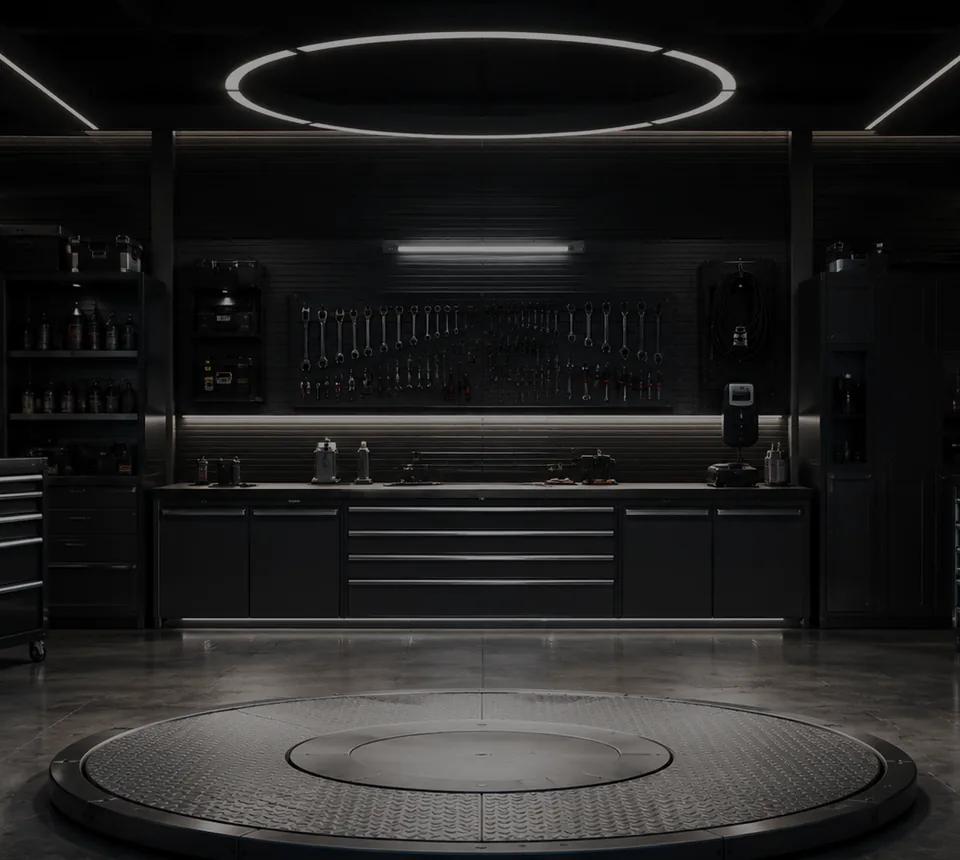
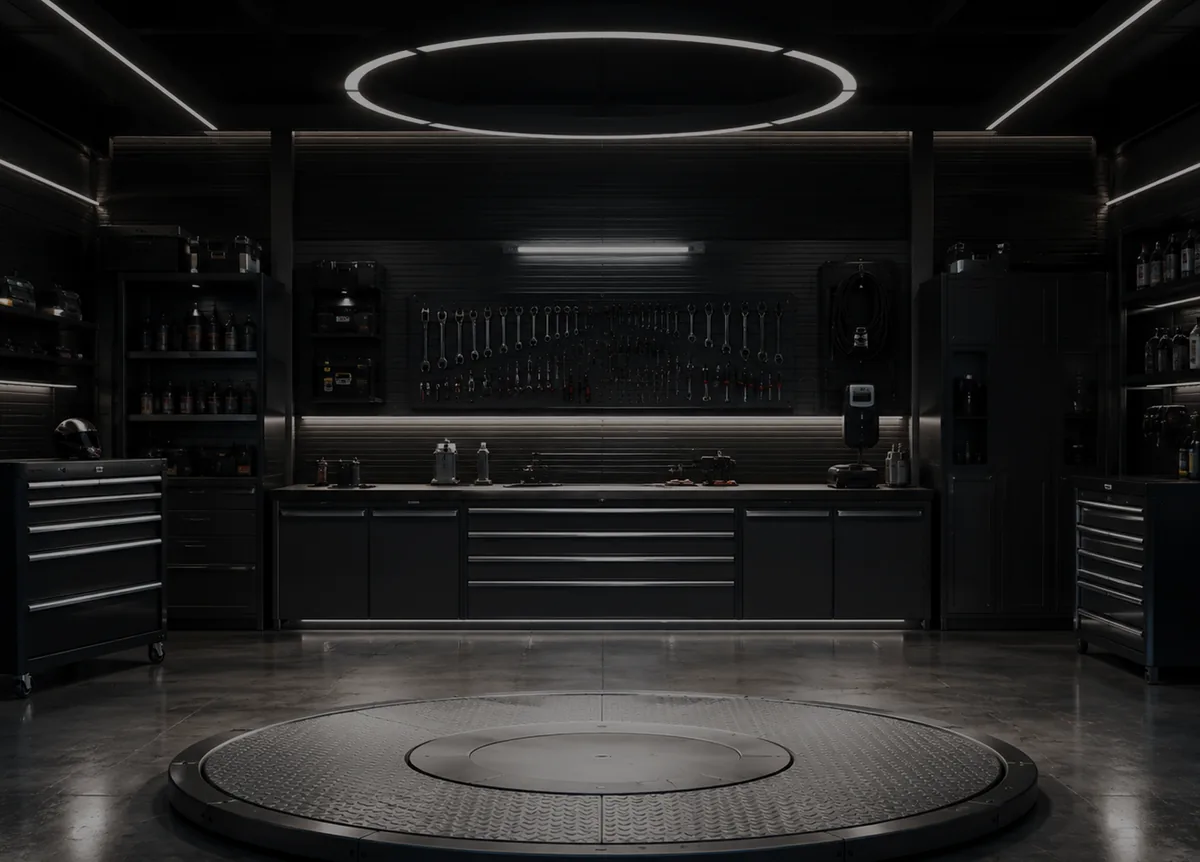
Werkstatt reicht weiter nach links, Teller und Maschine bleiben gleich
Der Bildausschnitt geht jetzt ueber fast den ganzen Raum (0.02 bis 0.98
statt 0.115 bis 0.885) und der Raum ragt 56 statt 16 Punkte ueber die
Buehne hinaus - nach beiden Seiten gleich, damit die Tellermitte auf der
Buehnenmitte bleibt. Weil die Karte mit cover ueber die HOEHE skaliert und
das breitere Bild im selben Verhaeltnis breiter ist, bleibt der Teller auf
den Punkt gleich gross (nachgerechnet 324 Punkte in beiden Faellen); es
wird nur mehr Werkstatt sichtbar und das Fading laeuft ueber eine laengere
Strecke. Der Ueberhang steht als Marke, damit er nie einseitig geraet.

diff --git a/stil/style.css b/stil/style.css
@@ -2702,6 +2702,11 @@ button.karte:active { transform: scale(0.985); }
      gebraucht: fuer die Spalten des Rasters und fuer die linke Kante des
      Raums (.bike-raum), die auf der Spaltengrenze liegen muss. */
   --bike-text-anteil: 0.46;
+  /* Wie weit der Werkstattraum ueber die Buehne hinausragt - nach BEIDEN
+     Seiten gleich, sonst laege die Tellermitte nicht mehr auf der
+     Buehnenmitte. Nach links traegt der Ueberhang das Fading zu den
+     Werten, nach rechts schneidet die Karte ihn ab. */
+  --bike-raum-ueberhang: 56px;
   grid-template-columns: minmax(0, calc(var(--bike-text-anteil) * 100%)) minmax(0, 1fr);
   grid-template-rows: auto auto 1fr auto;
   column-gap: var(--s3);
@@ -2732,12 +2737,15 @@ button.karte:active { transform: scale(0.985); }
    davor. */
 .bike-raum {
   position: absolute;
-  top: 0; right: 0; bottom: 0;
+  top: 0; bottom: 0;
+  right: calc(-1 * var(--bike-raum-ueberhang));
   /* Die linke Kante liegt 16 Punkte vor der Buehne (im Spaltenabstand),
-     die rechte 16 Punkte hinter ihr (im Innenabstand der Karte): Der Raum
-     ist damit SYMMETRISCH um die Buehne, und "center" legt die Tellermitte
-     des Bildes von selbst auf die Buehnenmitte - die Maschine steht auf dem
-     Teller, ohne dass das Bild verschoben wuerde.
+     die rechte gleich weit dahinter (ueber die Kartenkante hinaus, die
+     Karte schneidet ab): Der Raum ist damit SYMMETRISCH um die Buehne, und
+     "center" legt die Tellermitte des Bildes von selbst auf die
+     Buehnenmitte - die Maschine steht auf dem Teller, ohne dass das Bild
+     verschoben wuerde. Wer den Ueberhang aendert, aendert ihn ueber die
+     Marke und damit auf beiden Seiten zugleich.
 
      Hier stand zuerst ein Raum mit 150 Punkten Ueberhang nach links und
      einer Verschiebung des Bildes um 67 Punkte nach rechts. Das rechnete
@@ -2746,11 +2754,11 @@ button.karte:active { transform: scale(0.985); }
      abgeschnitten) und liess links eine harte Bildkante stehen, die das
      Fading zunichte machte.
 
-     Die Rechnung fuer left: Innenabstand + Textspalte + Spaltenabstand,
-     davon wieder ein Innenabstand zurueck. Prozent bezieht sich hier auf
-     die Kartenbreite innerhalb des Rahmens; die Textspalte ist ein Anteil
-     der Breite innerhalb des Innenabstands. */
-  left: calc(var(--bike-text-anteil) * (100% - 2 * var(--s4)) + var(--s3));
+     Die Rechnung fuer left: Textspalte + Spaltenabstand, davon der
+     Ueberhang zurueck. Prozent bezieht sich hier auf die Kartenbreite
+     innerhalb des Rahmens; die Textspalte ist ein Anteil der Breite
+     innerhalb des Innenabstands. */
+  left: calc(var(--bike-text-anteil) * (100% - 2 * var(--s4)) + var(--s3) - var(--bike-raum-ueberhang));
   z-index: 0;
   background: url("../img/bike-raum.webp") center bottom / cover no-repeat;
   /* Der Uebergang zu den Werten: ueber gut die Haelfte der Raumbreite, und

diff --git a/werkzeug/bike-raum.py b/werkzeug/bike-raum.py
@@ -21,16 +21,29 @@ WAS GERECHNET WIRD, und warum jede Zahl so ist:
 
   2. Der Ausschnitt. Der Drehteller ist im Bild ausgemessen: waagerecht von
      0.163 bis 0.828, die Aufsetzlinie der Raeder bei 0.7775 der Hoehe.
-     Seitlich wird auf 0.115 bis 0.885 beschnitten (der Teller mit etwas
-     Luft), unten bei 0.862 - dadurch liegt die Aufsetzlinie bei 90 Prozent
-     der Ausschnitthoehe. Das ist der Grund fuer diesen Schnitt: Mit
-     "background-position: center bottom" steht die Maschine dann AUF dem
-     Teller und nicht davor. Oben bleibt das Ringlicht ganz im Bild; die
-     Maske in style.css blendet es weich aus.
+     Unten wird bei 0.862 beschnitten - dadurch liegt die Aufsetzlinie bei
+     90 Prozent der Ausschnitthoehe. Das ist der Grund fuer diesen Schnitt:
+     Mit "background-position: center bottom" steht die Maschine dann AUF
+     dem Teller und nicht davor. Oben bleibt das Ringlicht ganz im Bild;
+     die Maske in style.css blendet es weich aus.
 
-  3. Verkleinern auf 960 Punkte Breite. Gerechnet, nicht gegriffen: Die
-     Buehne ist auf dem Handy rund 165 Punkte breit (bei dreifacher Dichte
-     495), im Querformat rund 380 (bei zweifacher 760). 960 deckt beides ab.
+     SEITLICH fast der ganze Raum (0.02 bis 0.98). Hier stand einmal
+     0.115 bis 0.885, also nur der Teller mit etwas Luft. Der Ausschnitt
+     wurde am 07.09.2026 verbreitert, damit die Werkstatt in der Karte
+     weiter nach links reicht und das Fading zu den Werten laenger wird.
+
+     WARUM DAS NICHTS AN TELLER UND MASCHINE AENDERT: Die Karte zeigt den
+     Raum mit "cover" bei fester Hoehe, das Bild wird also ueber seine
+     HOEHE skaliert. Der Teller misst im alten Ausschnitt 86 Prozent der
+     Bildbreite (0.665 von 0.77), im neuen 69 (0.665 von 0.96) - aber das
+     neue Bild ist im selben Verhaeltnis breiter. Nachgerechnet: alt
+     0.86 x 960 x 0.392 = 324 Punkte, neu 0.69 x 1200 x 0.391 = 324. Der
+     Teller bleibt auf den Punkt gleich gross, es wird links und rechts nur
+     mehr Raum sichtbar.
+
+  3. Verkleinern auf 1200 Punkte Breite. 960 waren es, solange der
+     Ausschnitt schmaler war; mit dem breiteren Ausschnitt haelt 1200
+     dieselbe Aufloesung je Flaeche.
 
   4. Abdunkeln auf 62 Prozent. Der Raum ist Untergrund, nicht Motiv - der
      Teller ist mit einer mittleren Helligkeit von 131 die hellste Stelle
@@ -46,9 +59,9 @@ VORLAGE = os.path.join(PROJEKT, 'arbeitsmaterial', 'vorlagen', 'NEUE WERKSTATT V
 ZIEL = os.path.join(PROJEKT, 'img', 'bike-raum.webp')
 
 # Anteile der Bildflaeche, am Raum ausgemessen (siehe Kopf).
-LINKS, RECHTS = 0.115, 0.885
+LINKS, RECHTS = 0.02, 0.98
 UNTEN = 0.862
-ZIEL_BREITE = 960
+ZIEL_BREITE = 1200
 HELLIGKEIT = 0.62
 GUETE = 82
 
